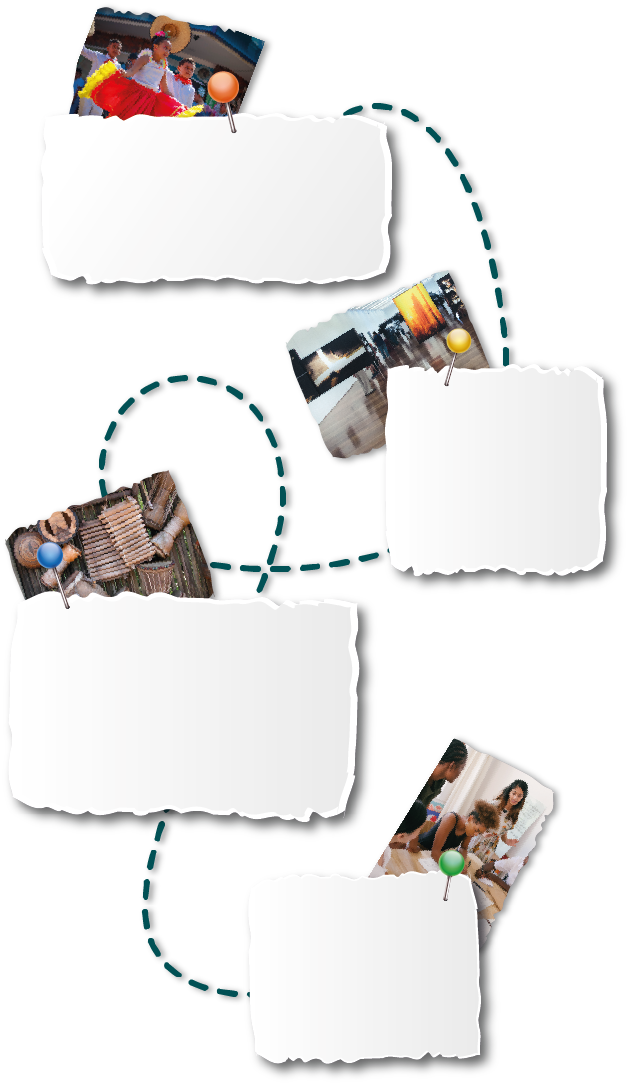
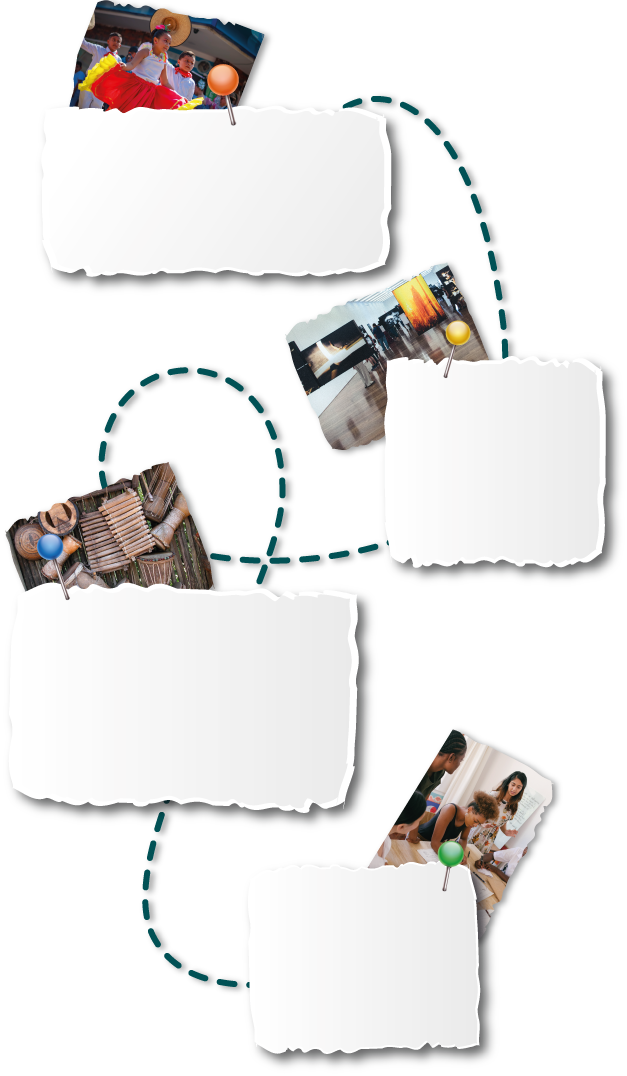
ajuste img

diff --git a/conteudo/css/custom.css b/conteudo/css/custom.css
@@ -155,7 +155,7 @@ padding-right: 30px;
 }
 
 .texto3-infografico{
-padding-top: 70px;
+padding-top: 50px;
 padding-left: 28px;
 padding-right: 287px;
 }
